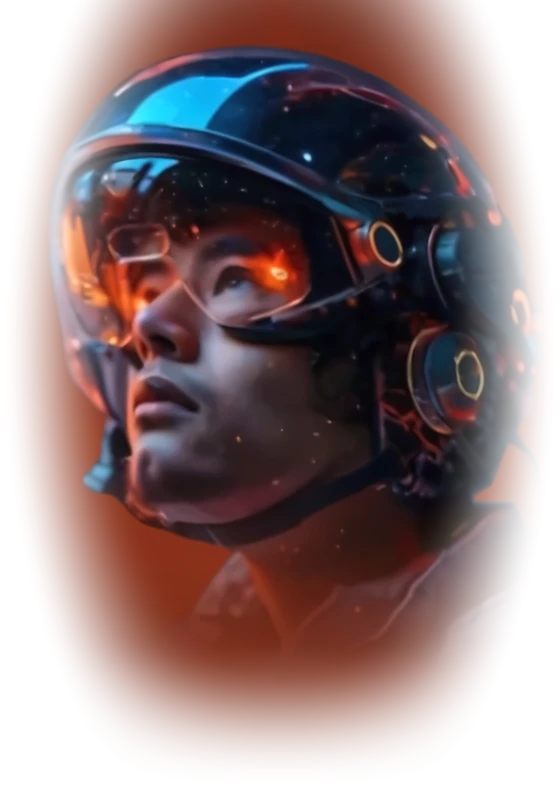
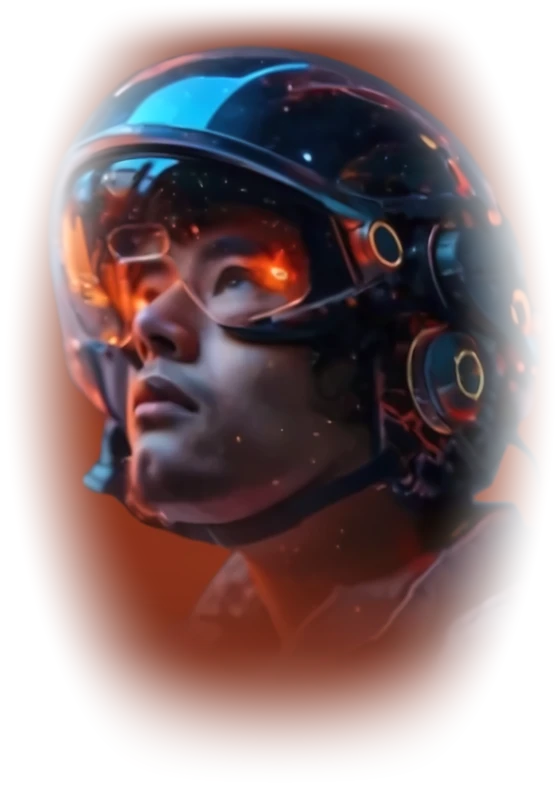
Hero fiquru: düzbucaqlı kənar izi aradan qaldırıldı; Seedance prompt paketi (docs/SEEDANCE_PROMPT.md)
Claude-Session: https://claude.ai/code/session_018wwuzreLGohmbe4iwips65

Changed region(s): [[0.0911, 0.0, 0.9107, 0.2121], [0.1214, 0.2121, 0.1518, 0.2424]]

diff --git a/app/Joblink.tsx b/app/Joblink.tsx
@@ -1800,7 +1800,7 @@ export default function Joblink() {
             <div className="gate-orbit two" />
             <div className="gate-figure">
               {/* eslint-disable-next-line @next/next/no-img-element */}
-              <img src="/hero-figure.webp" alt="" width={560} height={792} decoding="async" fetchPriority="high" />
+              <img src="/hero-figure.webp?v=2" alt="" width={560} height={792} decoding="async" fetchPriority="high" />
               <span className="gate-ring" />
               <span className="gate-badge">✳</span>
             </div>

diff --git a/docs/SEEDANCE_PROMPT.md b/docs/SEEDANCE_PROMPT.md
@@ -1,0 +1,137 @@
+# JobMatch üçün Seedance prompt paketi
+
+Bu paket JobMatch platforması üçün Seedance ilə (ByteDance video modeli) tanıtım videosu yaratmaq üçündür. Daxilində: **hazır promptlar**, **8 istinad şəkli** və **3 əsas + 3 əlavə istinad videosu**. Promptlar bu fayllara ad ilə istinad edir, ona görə şəkillər və videolar promptla uyğun gəlir.
+
+> Qeyd: Seedance-in interfeysi və limitləri versiyaya görə dəyişir (istinad şəkli/video sayı, uzunluq, `@Image1` yazılışı). Aşağıdakı adlandırma ümumidir; sizin interfeys fərqli etiket işlədirsə, `@Image1` → sizin etiketlə əvəz edin. Limit az olarsa, "Əsas" siyahıdakı fayllarla başlayın.
+
+---
+
+## 1. Fayllar və promptdakı adları
+
+**Şəkillər (`refs/`)**
+
+| Prompt adı | Fayl | Nə üçündür |
+|---|---|---|
+| @Image1 | `image1_hero_landing.png` | Giriş səhifəsi: fiqur, nümunə qrafiklər, axtarış. **İlk kadr kimi də istifadə olunur** |
+| @Image2 | `image2_job_match_score.png` | Vakansiya siyahısı, 84% uyğunluq nişanı, "Müraciət et" düyməsi |
+| @Image3 | `image3_employer_dashboard.png` | İşəgötürən paneli: KPI-lər, müraciət dinamikası, mərhələlər |
+| @Image4 | `image4_payroll.png` | Əmək haqqı: gross/net, vergi, bank reyestri |
+| @Image5 | `image5_salary_calculator.png` | Maaş kalkulyatoru: gross → net cədvəli |
+| @Image6 | `image6_pricing_company.png` | Şirkət paketləri (Pulsuz, 49, 149, 239, 399) |
+| @Image7 | `image7_ai_matcher_character.png` | Dəbilqəli "AI namizəd seçici" personaj (tünd narıncı fonda). `image7b_character_transparent.png` — şəffaf fonlu variant |
+| @Image8 | `image8_brand_style_palette.png` | Loqo `jobmatch✳`, rəng palitrası və üslub sözləri |
+
+**Videolar (`videos/`)** — hər biri 5 san, 1280×720, səssiz
+
+| Prompt adı | Fayl | Nə üçündür |
+|---|---|---|
+| @Video1 | `video1_hero_landing_5s.mp4` | Giriş səhifəsinin hərəkəti (qrafiklər animasiya olur, fiqur yellənir) |
+| @Video2 | `video2_job_match_5s.mp4` | Namizəd vakansiya axtarır, uyğunluq balını görür |
+| @Video3 | `video3_employer_dashboard_5s.mp4` | İşəgötürən paneli, qrafiklər |
+| əlavə | `extra/video4_payroll_5s.mp4`, `video5_calculators_5s.mp4`, `video6_pricing_5s.mp4` | Əmək haqqı, kalkulyator, qiymətlər |
+
+Yüklənmə sırası (limit azdırsa): **@Image7, @Image8, @Image1, @Image2, @Image3, @Video2, @Video3**. Qalanlar əlavədir.
+
+---
+
+## 2. MASTER PROMPT (15 saniyə, 16:9) — kopyalayıb yapışdırın
+
+```
+Create a 15-second cinematic 16:9 promo video for "JobMatch", an AI-powered platform that combines hiring, HR records and payroll, made in Azerbaijan.
+
+LOOK: A deep warm black-maroon world (#140807 to #2a0f0b) lit by soft glowing orange light (#ff8a4c and #d94c18), thin orange light sweeps, volumetric orange haze, subtle film grain, shallow depth of field. Floating translucent frosted-glass UI cards with hairline light borders and gentle orange glow. Premium, modern, calm, confident tech-commercial style. Follow the palette and mood of @Image8 exactly.
+
+HERO CHARACTER: the helmeted "AI talent matcher" from @Image7. Keep his face, glass-visor helmet, headphones and the orange/blue reflections identical in every frame. He looks calmly upward and forward, never speaks, only subtle breathing and slight head motion. Slow elliptical orbit rings glow around him.
+
+SHOTS:
+1) 0-3 s: Start exactly from the composition of @Image1 (use it as the first frame). Slow push-in toward the character. The sample glass charts around him animate: a bar chart grows, a donut chart draws, a rising line chart traces and ends in a glowing dot. Motion reference: @Video1.
+2) 3-6 s: The camera glides past the character into a floating glass screen that looks exactly like @Image2 / @Video2: a vacancy list where one card is highlighted in orange with an 84% match badge. A white cursor moves to the orange apply button and clicks; a soft success glow pulses.
+3) 6-9 s: Smooth parallax move to the employer dashboard from @Image3 / @Video3: KPI tiles slide in, the application bar chart grows, funnel bars fill from left to right.
+4) 9-12 s: Dissolve into the payroll screen @Image4 and the calculator @Image5: gross-to-net rows slide in one by one, the final net amount is highlighted with an orange glow and numbers count up. Keep UI layouts and numbers exactly as in the references.
+5) 12-15 s: Pull back. The screens fold into five frosted-glass pricing cards like @Image6, the middle one glowing. The cards converge and form the centered wordmark "jobmatch" with the orange asterisk (as in @Image8). A thin orange light sweep passes over the logo and the shot holds.
+
+CAMERA: slow gliding dolly and gentle parallax, no shaking, no fast zooms; 24 fps cinematic motion; smooth match-cut transitions between shots.
+
+AUDIO: modern warm cinematic electronic music, about 100 BPM, soft pulsing bass, light whooshes on transitions and tiny UI click sounds on the click. No voice, no lyrics.
+
+STRICT RULES: Do not redesign or distort the UI from the references; keep it sharp and legible. No readable text anywhere except the "jobmatch" wordmark (no gibberish, no fake words). No real brand logos, no watermark, no subtitles, no extra people. Keep the colors inside the orange/maroon palette.
+```
+
+---
+
+## 3. 60 saniyəlik versiya: 4 klip × 15 san (hamısı eyni üslubda)
+
+Hər klipə **@Image7 və @Image8-i mütləq əlavə edin** (personaj və üslub eyni qalsın). Sonra klipləri montajda birləşdirin.
+
+### Klip A — Giriş və problem → həll (15 san)
+Əlavə: @Image1, @Video1
+```
+15-second cinematic 16:9 opening for "JobMatch". Same look as @Image8 (deep maroon-black background, soft orange glow, frosted-glass cards, film grain) and the same helmeted character as @Image7, identical in every frame.
+0-5 s: A dark, messy desk-like space in warm shadow: scattered paper CV sheets, a spreadsheet grid floating, a clock; everything is dim and cluttered. Slow push-in.
+5-9 s: An orange light wave sweeps through; the clutter dissolves into particles that flow toward the helmeted character, who turns his head to the light.
+9-15 s: Reveal the composition of @Image1 (use as the final frame): character in the center with orbit rings, glass charts and cards floating around him, the wordmark area clean. Motion style from @Video1.
+Camera: slow dolly-in, smooth, no shake. Audio: warm cinematic electronic build-up, soft whoosh at the reveal, no voice.
+Rules: no readable text, no gibberish letters, keep colors in the orange/maroon palette, no extra people.
+```
+
+### Klip B — Namizəd: uyğunluq balı və 1 klik (15 san)
+Əlavə: @Image2, @Video2
+```
+15-second cinematic 16:9 scene. Same style as @Image8 and same character as @Image7 (he appears small in the background as a glowing guide).
+A large floating glass screen exactly like @Image2 / @Video2 fills the frame: job search field, filters, vacancy cards. Highlight one card in orange with an 84% match badge; a ring gauge around the badge fills smoothly. A white cursor glides to the orange apply button and clicks; a success glow pulses and a "sent" check appears. Orange particles rise from the click. Slow gliding camera with gentle parallax, depth of field blur on the edges.
+Audio: soft pulsing electronic bass, a single clear UI click, light chime on success, no voice.
+Rules: keep the UI layout identical to the references, sharp and legible; no gibberish text; orange/maroon palette only.
+```
+
+### Klip C — İşəgötürən paneli və kadr (15 san)
+Əlavə: @Image3, @Video3, @Image4
+```
+15-second cinematic 16:9 scene. Same style as @Image8, same character as @Image7 as a faint glowing silhouette in the background.
+Smooth parallax across the employer dashboard from @Image3 / @Video3: KPI tiles slide in, the application bar chart grows, the funnel bars (new, interview, offer, hired) fill one after another. Then the camera glides to the HR/payroll screen of @Image4: rows of employees and amounts slide in, the net amount glows orange. Glass panels float at different depths. Keep all UI exactly as in the references.
+Camera: slow lateral dolly with depth parallax. Audio: steady warm electronic pulse, subtle whooshes, tiny UI ticks, no voice.
+Rules: no gibberish text; sharp, legible UI; orange/maroon palette.
+```
+
+### Klip D — Kalkulyator, qiymət və finaldır (15 san)
+Əlavə: @Image5, @Image6, @Image8
+```
+15-second cinematic 16:9 closing scene. Style of @Image8, character of @Image7.
+0-5 s: The salary calculator like @Image5: the gross amount types in, rows slide in (tax, social insurance, net) and the net total counts up and glows.
+5-10 s: The screen folds into five frosted-glass pricing cards like @Image6 (Free, 49, 149, 239, 399); the middle card pulses with an orange glow.
+10-15 s: The cards converge into the centered wordmark "jobmatch" with the orange asterisk from @Image8 on the deep maroon background. The helmeted character from @Image7 appears behind the logo in soft glow. A thin orange light sweep crosses the logo and the shot holds for the last two seconds.
+Audio: music resolves to a confident final chord, one soft whoosh, no voice.
+Rules: only the "jobmatch" wordmark as readable text; no gibberish; palette stays orange/maroon.
+```
+
+---
+
+## 4. Çıxarılmalı olanlar (negative) — ayrıca sahə varsa
+
+```
+distorted UI, garbled text, random letters, fake logos, watermark, subtitles, extra people, extra fingers, face change, helmet change, flicker, camera shake, blown-out highlights, neon blue or purple color shift, cartoon style, low resolution, jump cuts
+```
+
+---
+
+## 5. Səsləndirmə mətni (Azərbaycanca, Seedance-dən sonra ayrıca səsləndirin)
+
+Seedance Azərbaycan dilini və hərf ardıcıllığını etibarlı vermir, ona görə **səs və yazı montajda əlavə edilir**.
+
+| Klip | Diktor mətni |
+|---|---|
+| A | CV-lər poçtda, işçi məlumatları Excel-də, əmək haqqı başqa yerdə. Vaxt hər gün bu dağınıqlığa gedir. JobMatch bunu dəyişir: iş axtaran, işəgötürən və kadr şöbəsi eyni platformada. |
+| B | Süni intellekt hər CV-ni vakansiya ilə müqayisə edir və aydın uyğunluq balı verir. Namizəd bir kliklə müraciət edir. |
+| C | Müraciətdən müsahibəyə, testdən təklifə: canlı panel hər namizədin harada olduğunu göstərir. İşçi kartı, əmrlər, məzuniyyət, davamiyyət və əmək haqqı eyni yerdədir. |
+| D | Vergi və sığorta 2026 dərəcələri ilə avtomatik hesablanır. Başlamaq pulsuzdur, AI paketləri 49 manatdan; Kadr modulu AI ilə birlikdə 120, tək 150 manat, ƏDV əlavə olunur. JobMatch: doğru insan, doğru imkan. |
+
+**Ekran yazıları (montajda əlavə edin):** "Doğru namizəd saniyələr içində", "Müraciət də bir klik", "Bütün mərhələlər bir ekranda", "13 kalkulyator, tamamilə pulsuz", "Pulsuz başlayın". Son kadrda: `JobMatch by Digilabs · +994 55 478 25 81 · info@digilabs.az`.
+
+---
+
+## 6. Faydalı məsləhətlər
+
+- **Ardıcıllıq:** hər klipdə eyni 2 şəkli (@Image7 personaj, @Image8 üslub) göndərin. Personajın üzü dəyişərsə, `image7b_character_transparent.png` ilə yenidən cəhd edin.
+- **UI dəqiqliyi:** modelin yenidən çəkdiyi ekranlarda yazılar bulanıq çıxa bilər. Ən etibarlı yol: Seedance ilə atmosfer və keçidləri yaradın, real ekranları isə bu paketdəki `videos/` klipləri ilə montajda üstə qoyun.
+- **Uzun versiya (9:16):** promptun sonuna "vertical 9:16 framing, keep the character and UI centered" əlavə edin və ekranları yuxarı-aşağı düzün.
+- **Sürətli iterasiya:** əvvəl 5 saniyəlik qısa test edin, sonra 15 saniyəyə keçin.
+- **Hüquqi:** @Image7 personajı sizin göndərdiyiniz üçüncü tərəf istinad şəklindən hazırlanıb. İctimai reklamda istifadədən əvvəl şəklin müəllif hüququnu yoxlayın.
